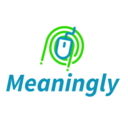
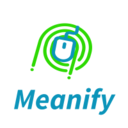
chrome.storage & option page functioning added

Changed region(s): [[0.0312, 0.1562, 0.9375, 0.9062]]

diff --git a/js/content.js b/js/content.js
@@ -1,0 +1,76 @@
+showItems();
+
+function showItems() {
+    chrome.storage.local.get({ meanifyWords: [] }, (result) => {
+        let html = "";
+        let getWordsObj = result.meanifyWords;
+        getWordsObj.forEach((element, index) => {
+            html += `<div id="wordContainer">
+        <div class="words-container d-flex">
+        <div class="index">
+            <p>${index + 1}</p>
+        </div>
+        <div class="main-content">
+            <p class="m-word"><span class="b-text main-word">${element.word}</span> or ${element.phonetic == undefined ? "" : element.phonetic}</p>
+
+            <p><span class="b-text">Meaning:</span> ${element.definition}</p>
+            <p><span class="b-text">Example:</span> ${element.example == undefined ? "" : element.example}</p>
+            <p><i>synonyms: ${element.synonyms[0] == undefined ? "" : element.synonyms[0] + ","} ${element.synonyms[1] == undefined ? "" : element.synonyms[1] + ","} ${element.synonyms[2] == undefined ? "" : element.synonyms[2] + ","} ${element.synonyms[3] == undefined ? "" : element.synonyms[3] + ","} ${element.synonyms[4] == undefined ? "" : element.synonyms[4]}</i></p>
+        </div>
+        <div class="icons">
+            <i class="fas fa-volume-up fa-2x audioBtn" id="${index}" ></i>
+            <i class="fas fa-trash fa-2x deleteBtn" id="${index}" ></i>
+        </div>
+    </div>
+    </div>`
+        });
+        let wordBox = document.getElementById("wordBox");
+        if (getWordsObj.length != 0) {
+            wordBox.innerHTML = html;
+        } else {
+            wordBox.innerHTML = `<p>Nothing to show! Please Add some words first.</p>`;
+        }
+    })
+}
+
+// function to play sounds
+document.addEventListener('click', function (e) {
+    e.preventDefault();
+    if (e.target.matches('.audioBtn')) {
+        chrome.storage.local.get({ meanifyWords: [] }, (result) => {
+            let getWordsObj = result.meanifyWords;
+            let getAudio = getWordsObj[e.target.id].audio;
+            let sound = new Audio(getAudio);
+            sound.play();
+        })
+    }
+});
+
+//delete existing word from local storage
+document.addEventListener('click', function (e) {
+    e.preventDefault();
+    if (e.target.matches('.deleteBtn')) {
+        chrome.storage.local.get({ meanifyWords: [] }, (result) => {
+            let getWordsObj = result.meanifyWords;
+            getWordsObj.splice(e.target.id, 1);
+            chrome.storage.local.set({ meanifyWords: getWordsObj });
+            showItems();
+        })
+    }
+});
+
+//search functionality
+let search = document.getElementById("search");
+search.addEventListener("input", () => {
+    let inputTxt = search.value;
+    let wordsContainer = document.querySelectorAll("div#wordContainer")
+    Array.from(wordsContainer).forEach((element) => {
+        let mainWord = element.querySelector("span.main-word").innerText;
+        if (mainWord.includes(inputTxt)) {
+            element.style.display = "block";
+        }
+        else {
+            element.style.display = "none";
+        }
+    });
+})

diff --git a/js/background.js b/js/background.js
@@ -4,12 +4,12 @@ chrome.runtime.onMessage.addListener((msg, sender, response) => {
 	response({ text: "got the response" });
 })
 
-chrome.contextMenus.removeAll(function() {
-chrome.contextMenus.create({
-	id: "Meaning",
-	title: "Meanify",
-	contexts: ["all"]
-});
+chrome.contextMenus.removeAll(function () {
+	chrome.contextMenus.create({
+		id: "Meaning",
+		title: "Meanify",
+		contexts: ["all"]
+	});
 });
 
 chrome.contextMenus.onClicked.addListener(function () {
@@ -21,16 +21,44 @@ chrome.contextMenus.onClicked.addListener(function () {
 		}
 		else {
 			let a = getData(newData);
-			a.then((data)=>{
-				alert(data[0].meanings[0].definitions[0].definition);
-			})
+			a.then((data) => {
+				const { word, phonetic } = data[0];
+				const { definition, example, synonyms } = data[0].meanings[0].definitions[0];
+				if (data[0].phonetics[0] == undefined) {
+					var wordObj = {
+						word: word,
+						phonetic: phonetic,
+						definition: definition,
+						example: example,
+						synonyms: synonyms
+					}
+				} else {
+					const { audio } = data[0].phonetics[0];
+					var wordObj = {
+						word: word,
+						phonetic: phonetic,
+						definition: definition,
+						example: example,
+						synonyms: synonyms,
+						audio: audio
+					}
+				}
+                let list=new Array();
+				chrome.storage.local.get({meanifyWords:[]},(result)=>{
+					let meanifyWords=result.meanifyWords;
+					meanifyWords.push(wordObj);
+					chrome.storage.local.set({meanifyWords:meanifyWords});
+				});
+				alert(wordObj.definition);
+			});
 		}
-	}else{
+	} else {
 		alert("invalid selection! Try again")
 	}
-})
+});
+
 async function getData(word) {
-    const response = await fetch(`https://api.dictionaryapi.dev/api/v2/entries/en/${word}`);
-    const data = await response.json();
-    return data;
+	const response = await fetch(`https://api.dictionaryapi.dev/api/v2/entries/en/${word}`);
+	const data = await response.json();
+	return data;
 }

diff --git a/html/popup.html b/html/popup.html
@@ -6,18 +6,13 @@
     <meta http-equiv="X-UA-Compatible" content="IE=edge">
     <meta name="viewport" content="width=device-width, initial-scale=1.0">
     <title>Meanify</title>
-    <link href="https://cdn.jsdelivr.net/npm/bootstrap@5.1.3/dist/css/bootstrap.min.css" rel="stylesheet"
-        integrity="sha384-1BmE4kWBq78iYhFldvKuhfTAU6auU8tT94WrHftjDbrCEXSU1oBoqyl2QvZ6jIW3" crossorigin="anonymous">
-    <script src="https://cdn.jsdelivr.net/npm/bootstrap@5.1.3/dist/js/bootstrap.bundle.min.js"
-        integrity="sha384-ka7Sk0Gln4gmtz2MlQnikT1wXgYsOg+OMhuP+IlRH9sENBO0LRn5q+8nbTov4+1p"
-        crossorigin="anonymous"></script>
-    <meta http-equiv="Content-Security-Policy" content="default-src gap://ready file://* *; style-src 'self' http://* https://* 'unsafe-inline'; script-src 'self' http://* https://* 'unsafe-inline' 'unsafe-eval'">
+    <link rel="stylesheet" href="../css/popup.css">
 </head>
 <body>
-    <div class="container">
-        <input type="text" class="form-control" id="wordinput">
+    <div class="container-popup">
+        <img src="../images/icon.png" alt="">
+        <a href="./content.html" target="_blank" class="button-54">Your Words</a>
     </div>
-    <a href="./test.html" target="_blank">link</a>
     <script src="../js/test.js"></script>
 </body>
 </html>

diff --git a/css/popup.css b/css/popup.css
@@ -66,3 +66,33 @@ hr{
     padding: 0px 6px;
     margin-right: 10px;
 }
+
+.container-popup{
+    text-align: center;
+    margin-bottom: 30px;
+}
+
+.button-54 {
+    font-family: "Open Sans", sans-serif;
+    font-size: 13px;
+    letter-spacing: 2px;
+    text-decoration: none;
+    text-transform: uppercase;
+    color: #000;
+    cursor: pointer;
+    border: 3px solid;
+    padding: 0.25em 0.5em;
+    box-shadow: 1px 1px 0px 0px, 2px 2px 0px 0px, 3px 3px 0px 0px, 4px 4px 0px 0px, 5px 5px 0px 0px;
+    position: relative;
+    user-select: none;
+    -webkit-user-select: none;
+    touch-action: manipulation;
+    background: white;
+}
+
+.button-54:active {
+    box-shadow: 0px 0px 0px 0px;
+    top: 5px;
+    left: 5px;
+}
+

diff --git a/html/content.html b/html/content.html
@@ -22,7 +22,7 @@
                 <h1>Meanify</h1>
             </a>
             <form class="d-flex">
-                <input class="form-control me-2" autocomplete="off" type="search" id="search" placeholder="Search" aria-label="Search">
+                <input class="form-control me-2" autocomplete="off" type="search" id="search" placeholder="Search by word" aria-label="Search">
             </form>
         </div>
     </nav>
@@ -38,7 +38,7 @@
         </div>
         
     </div>
-    <script src="../js/popup.js"></script>
+    <script src="../js/content.js"></script>
 </body>
 
 </html>

diff --git a/js/myscript.js b/js/myscript.js
@@ -1,10 +1,10 @@
 document.addEventListener('mouseup', function (e) {
 	e.preventDefault();
 	var sel = window.getSelection().toString();
-	if (sel.length>0) {
-		chrome.runtime.sendMessage({ word: sel }, (response) => {
-			response;
+	if (sel.length > 0) {
+		chrome.runtime.sendMessage({ word: sel },(response)=>{
+            console.log(response.text);
 		})
 	}
-	sel="";
+	sel = "";
 })
